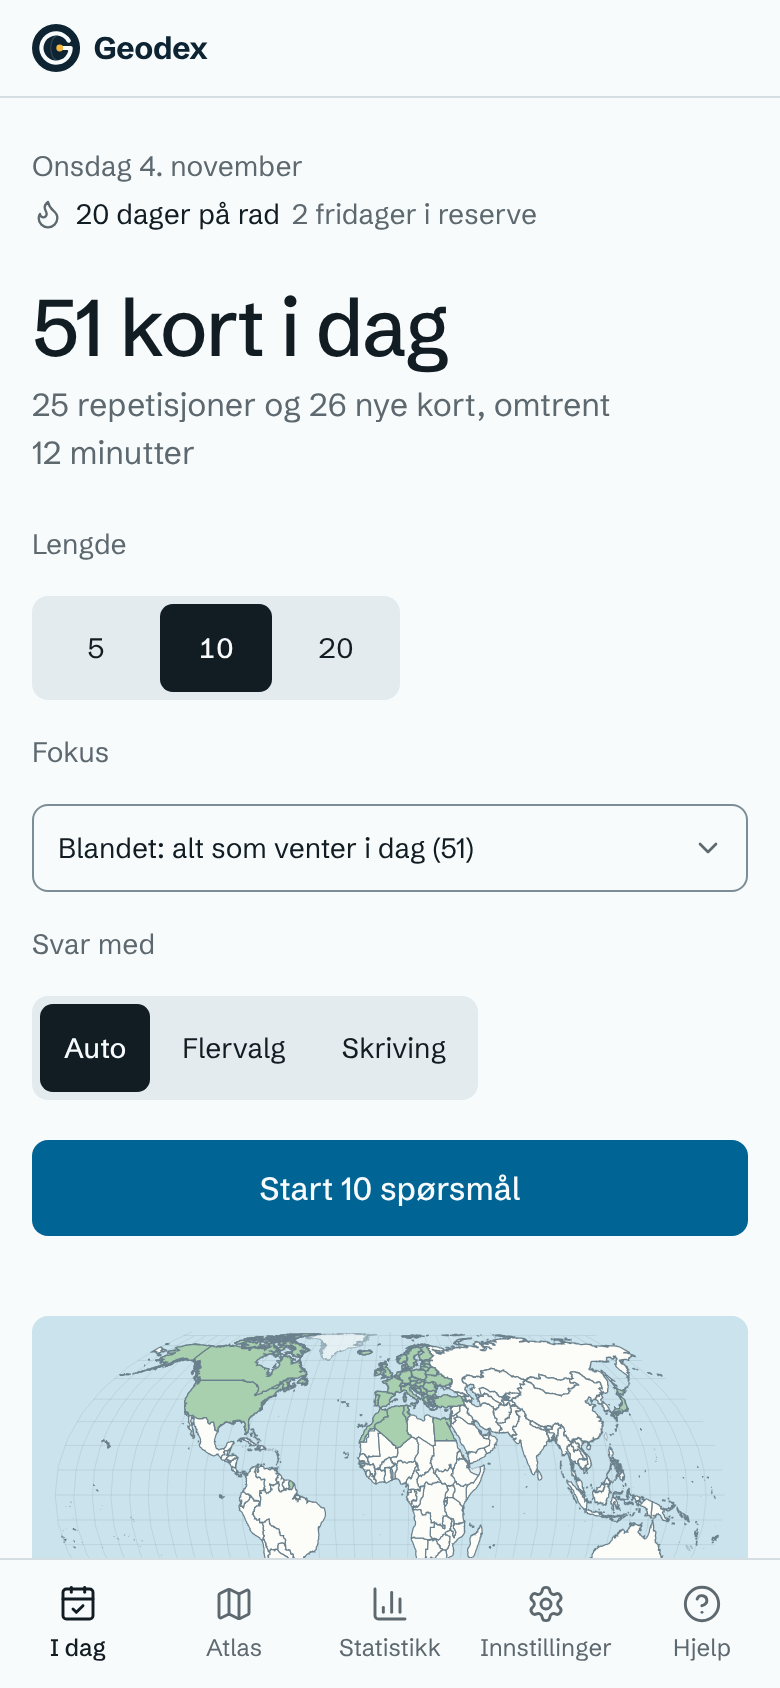
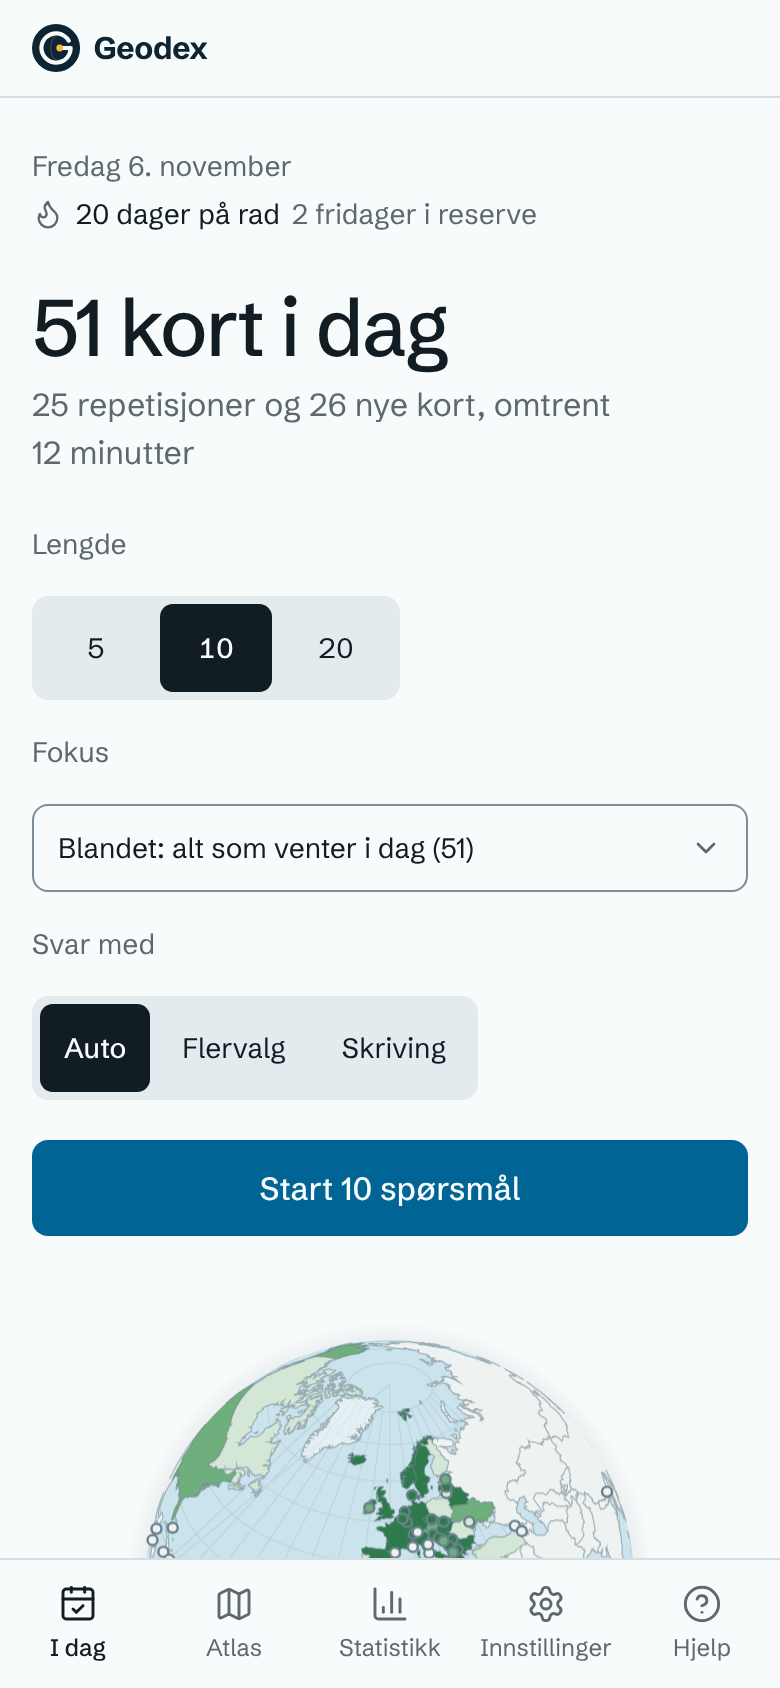
docs: screenshots of the Today globe and Over time on the globe

Changed region(s): [[0.0308, 0.7701, 0.9846, 0.9242], [0.0308, 0.0924, 0.3692, 0.1232]]

diff --git a/README.md b/README.md
@@ -25,8 +25,8 @@ Questions are answered on a real map (Equal Earth, so sizes look the way they ar
 
 | Today | Stats |
 |---|---|
-| ![Today: cards due, the session picker and the map of countries started](docs/media/today.png) | ![Stats: level and XP, and the cards due in the next 30 days](docs/media/stats.png) |
-| ![The Atlas in dark mode: a globe coloured by how well each country is known](docs/media/atlas-dark.png) | ![Borders over time: the Ottoman, Spanish and Mughal empires in 1820](docs/media/timeline.png) |
+| ![Today: cards due, the session picker and a turning globe of the countries started](docs/media/today.png) | ![Stats: level and XP, and the cards due in the next 30 days](docs/media/stats.png) |
+| ![The Atlas in dark mode: a globe coloured by how well each country is known](docs/media/atlas-dark.png) | ![Borders over time on the globe: the Ottoman, Spanish, Mughal and British empires in 1820](docs/media/timeline.png) |
 
 <p align="center">
   <img src="docs/media/phone-today.png" alt="Today on a phone, in Norwegian" width="260">
